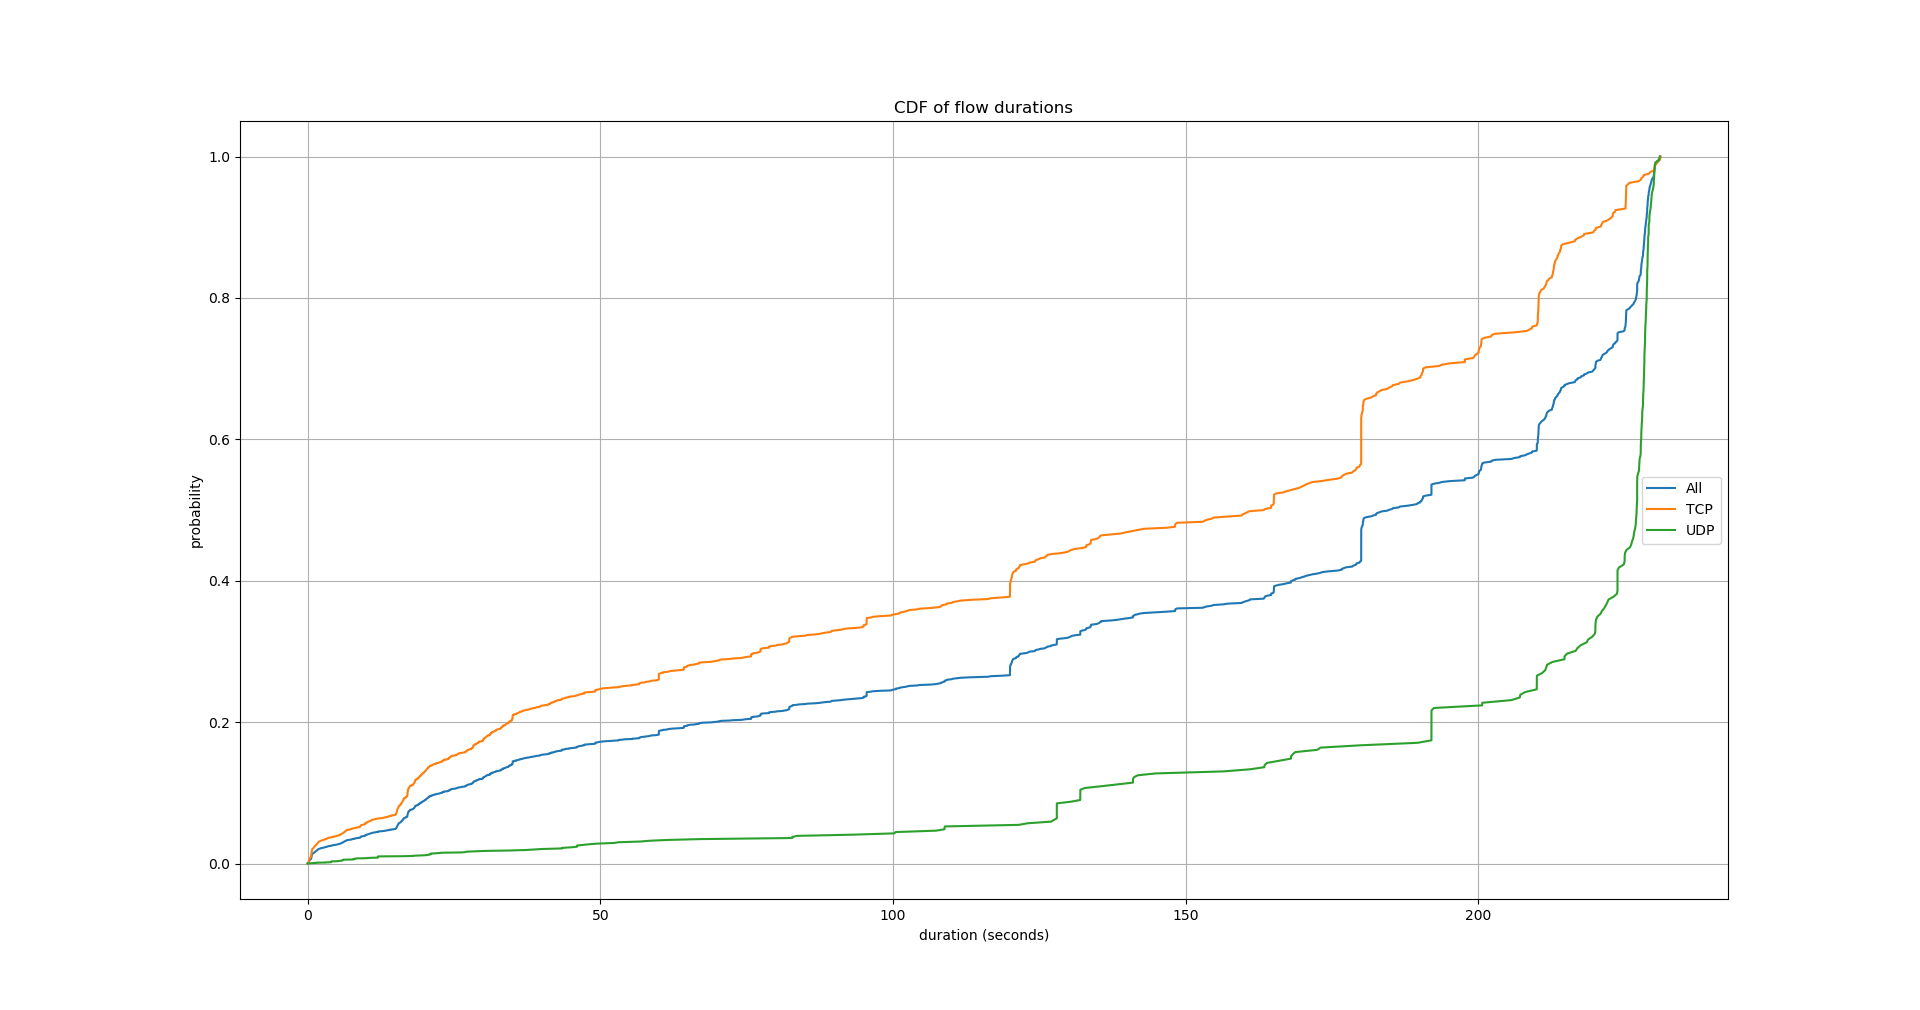
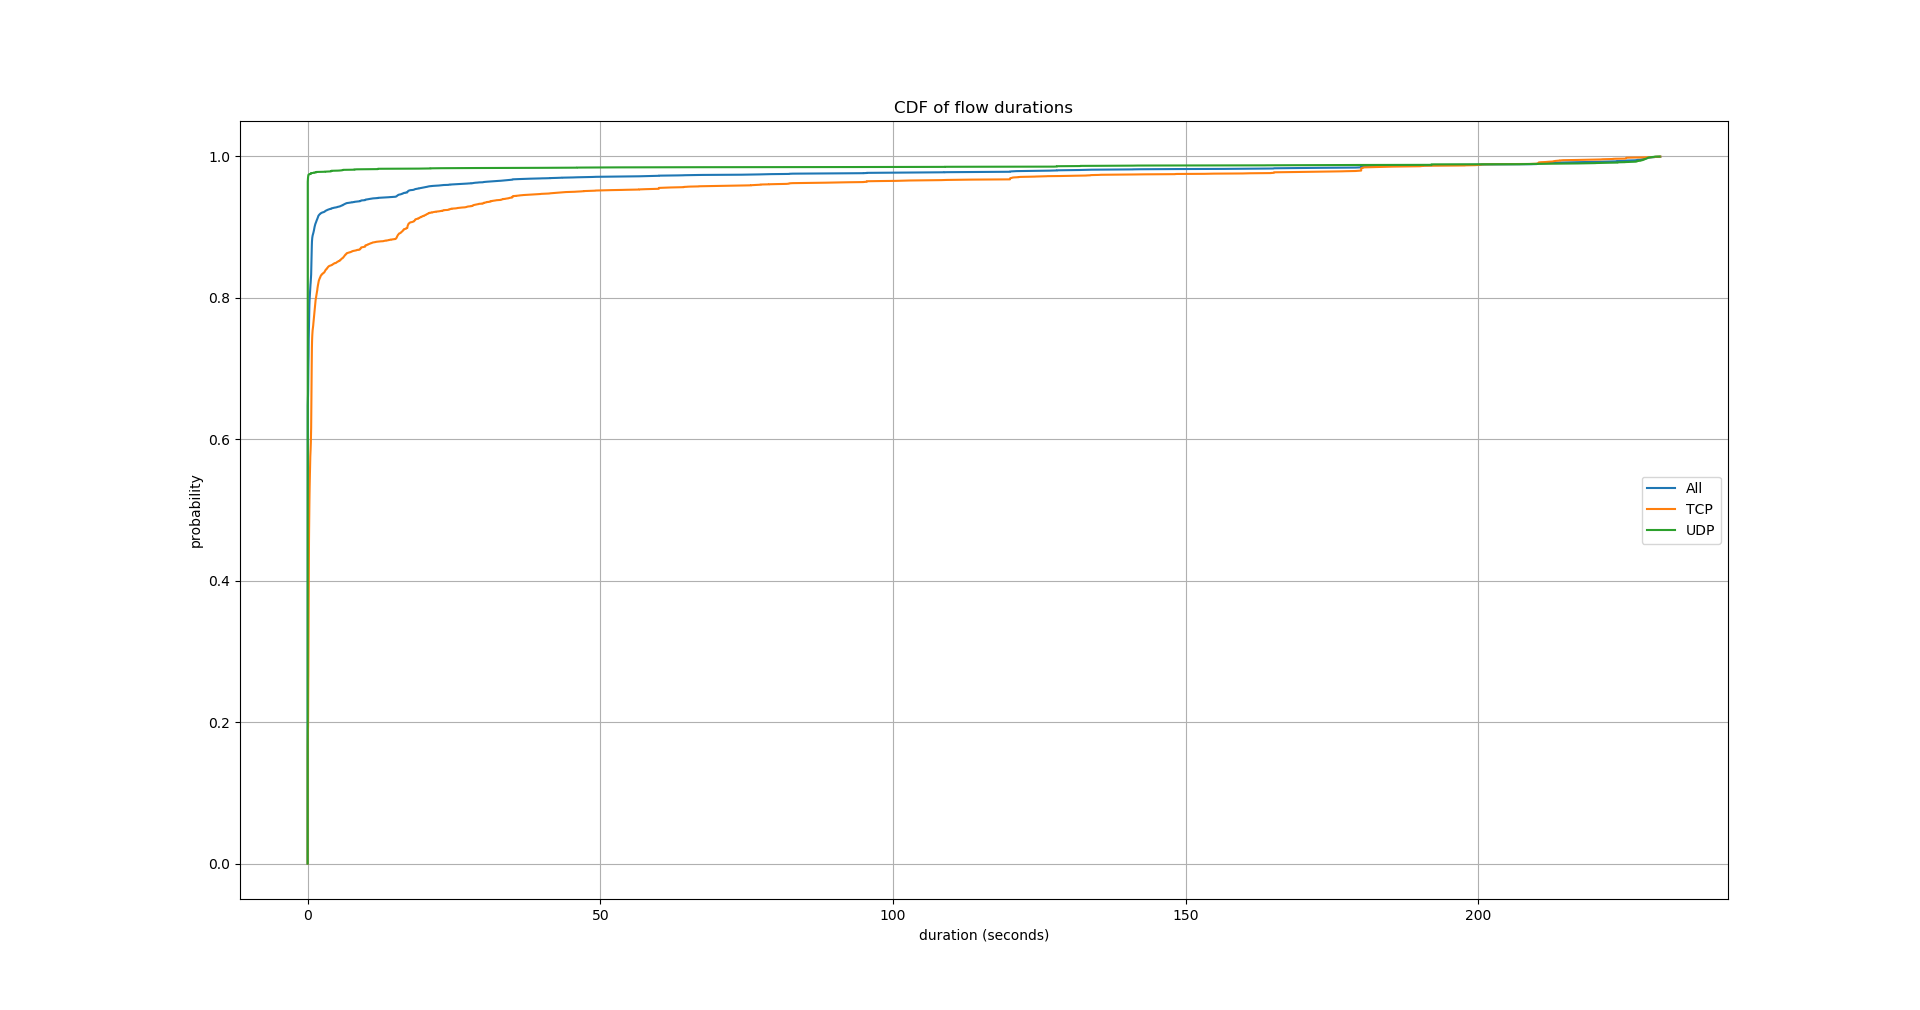
Fix errors with alternative CDF grapher, update graphs

diff --git a/find_flow.py b/find_flow.py
@@ -153,14 +153,14 @@ def process_flows():
         udp_durations = flow_durations(udp_flows)
 
         # graph CDF of durations
-        grapher.graph_CDF([all_durations, tcp_durations, udp_durations], ['All', 'TCP', 'UDP'], 'CDF of flow durations', 'duration (seconds)', 'probability')
+        grapher.graph_CDF_alt([all_durations, tcp_durations, udp_durations], ['All', 'TCP', 'UDP'], 'CDF of flow durations', 'duration (seconds)', 'probability')
 
         # find packet counts of flows
         all_counts = flow_packet_counts(all_flows)
         tcp_counts = flow_packet_counts(tcp_flows)
         udp_counts = flow_packet_counts(udp_flows)
         # graph CDF of packet counts
-        grapher.graph_CDF([all_counts, tcp_counts, udp_counts], ['All', 'TCP', 'UDP'], 'CDF of flow packet sizes', 'number of packets in a flow', 'probability')
+        grapher.graph_CDF_alt([all_counts, tcp_counts, udp_counts], ['All', 'TCP', 'UDP'], 'CDF of flow packet sizes', 'number of packets in a flow', 'probability')
 
 
 

diff --git a/grapher.py b/grapher.py
@@ -19,8 +19,9 @@ def graph_CDF_alt(data_sets, data_labels, title, xlabel, ylabel):
         total_sum = np.sum(data_sets[i])
 
         bucket_values = np.sort(np.array(data_sets[i], dtype=np.float32))
+        probabilities = np.full(len(data_sets[i]), 1, dtype=np.float32) / len(data_sets[i])
+        cumulative = np.cumsum(probabilities)
 
-        probabilities = bucket_values / total_sum
         ax.plot(bucket_values, np.cumsum(probabilities), label=data_labels[i])
 
     ax.grid(True)
